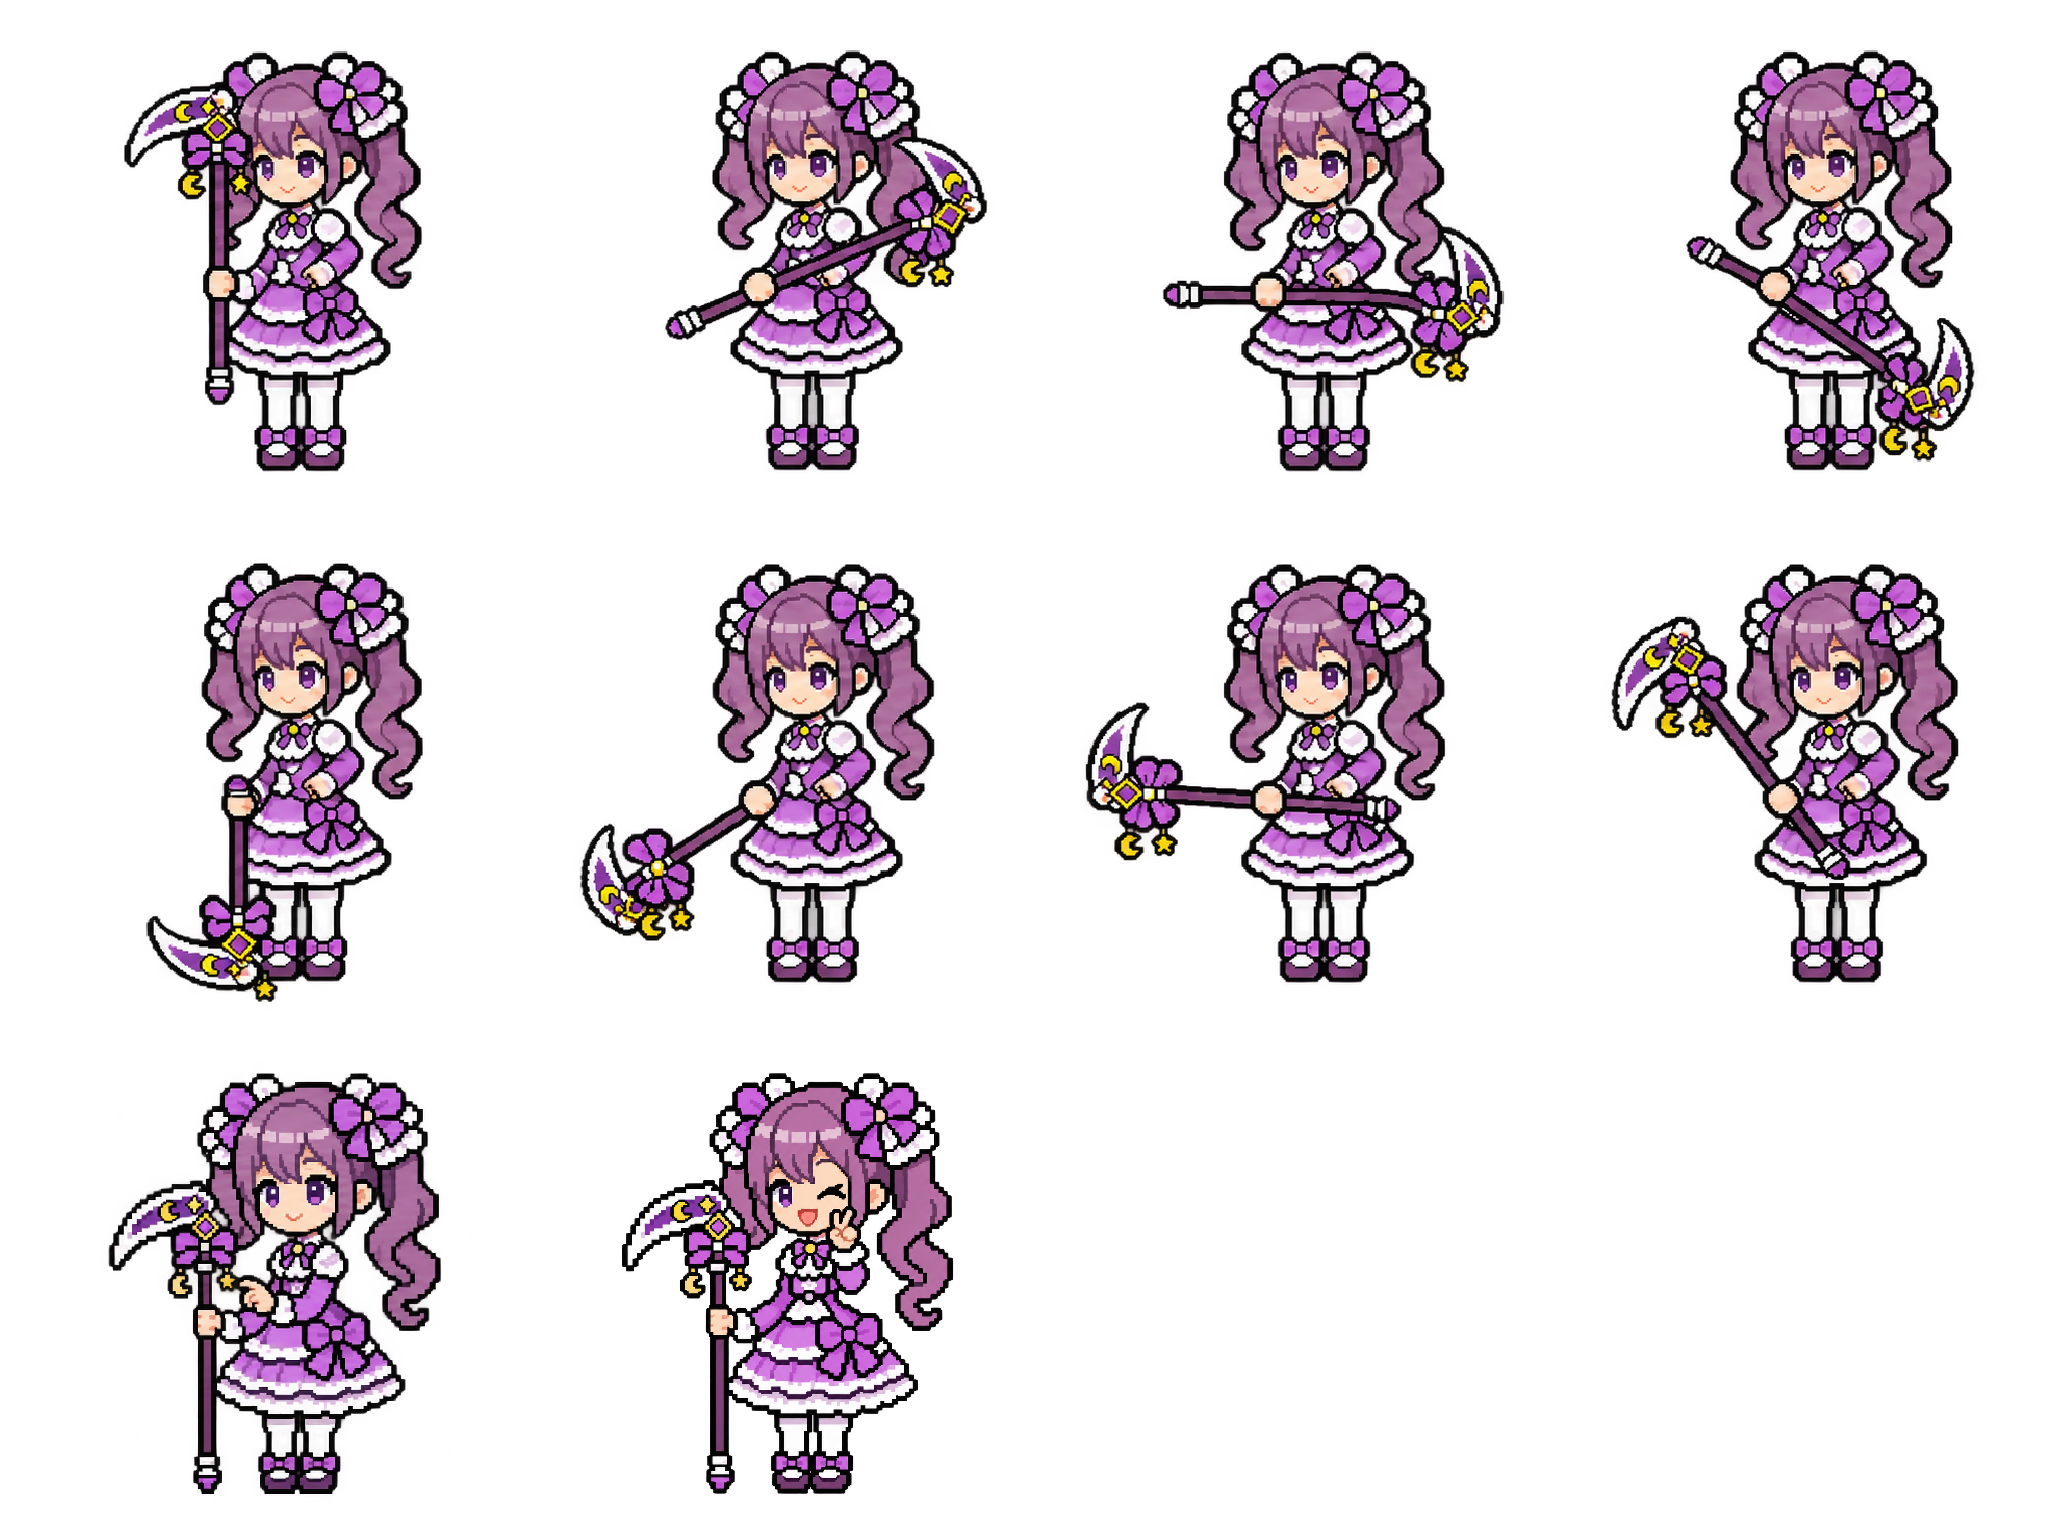
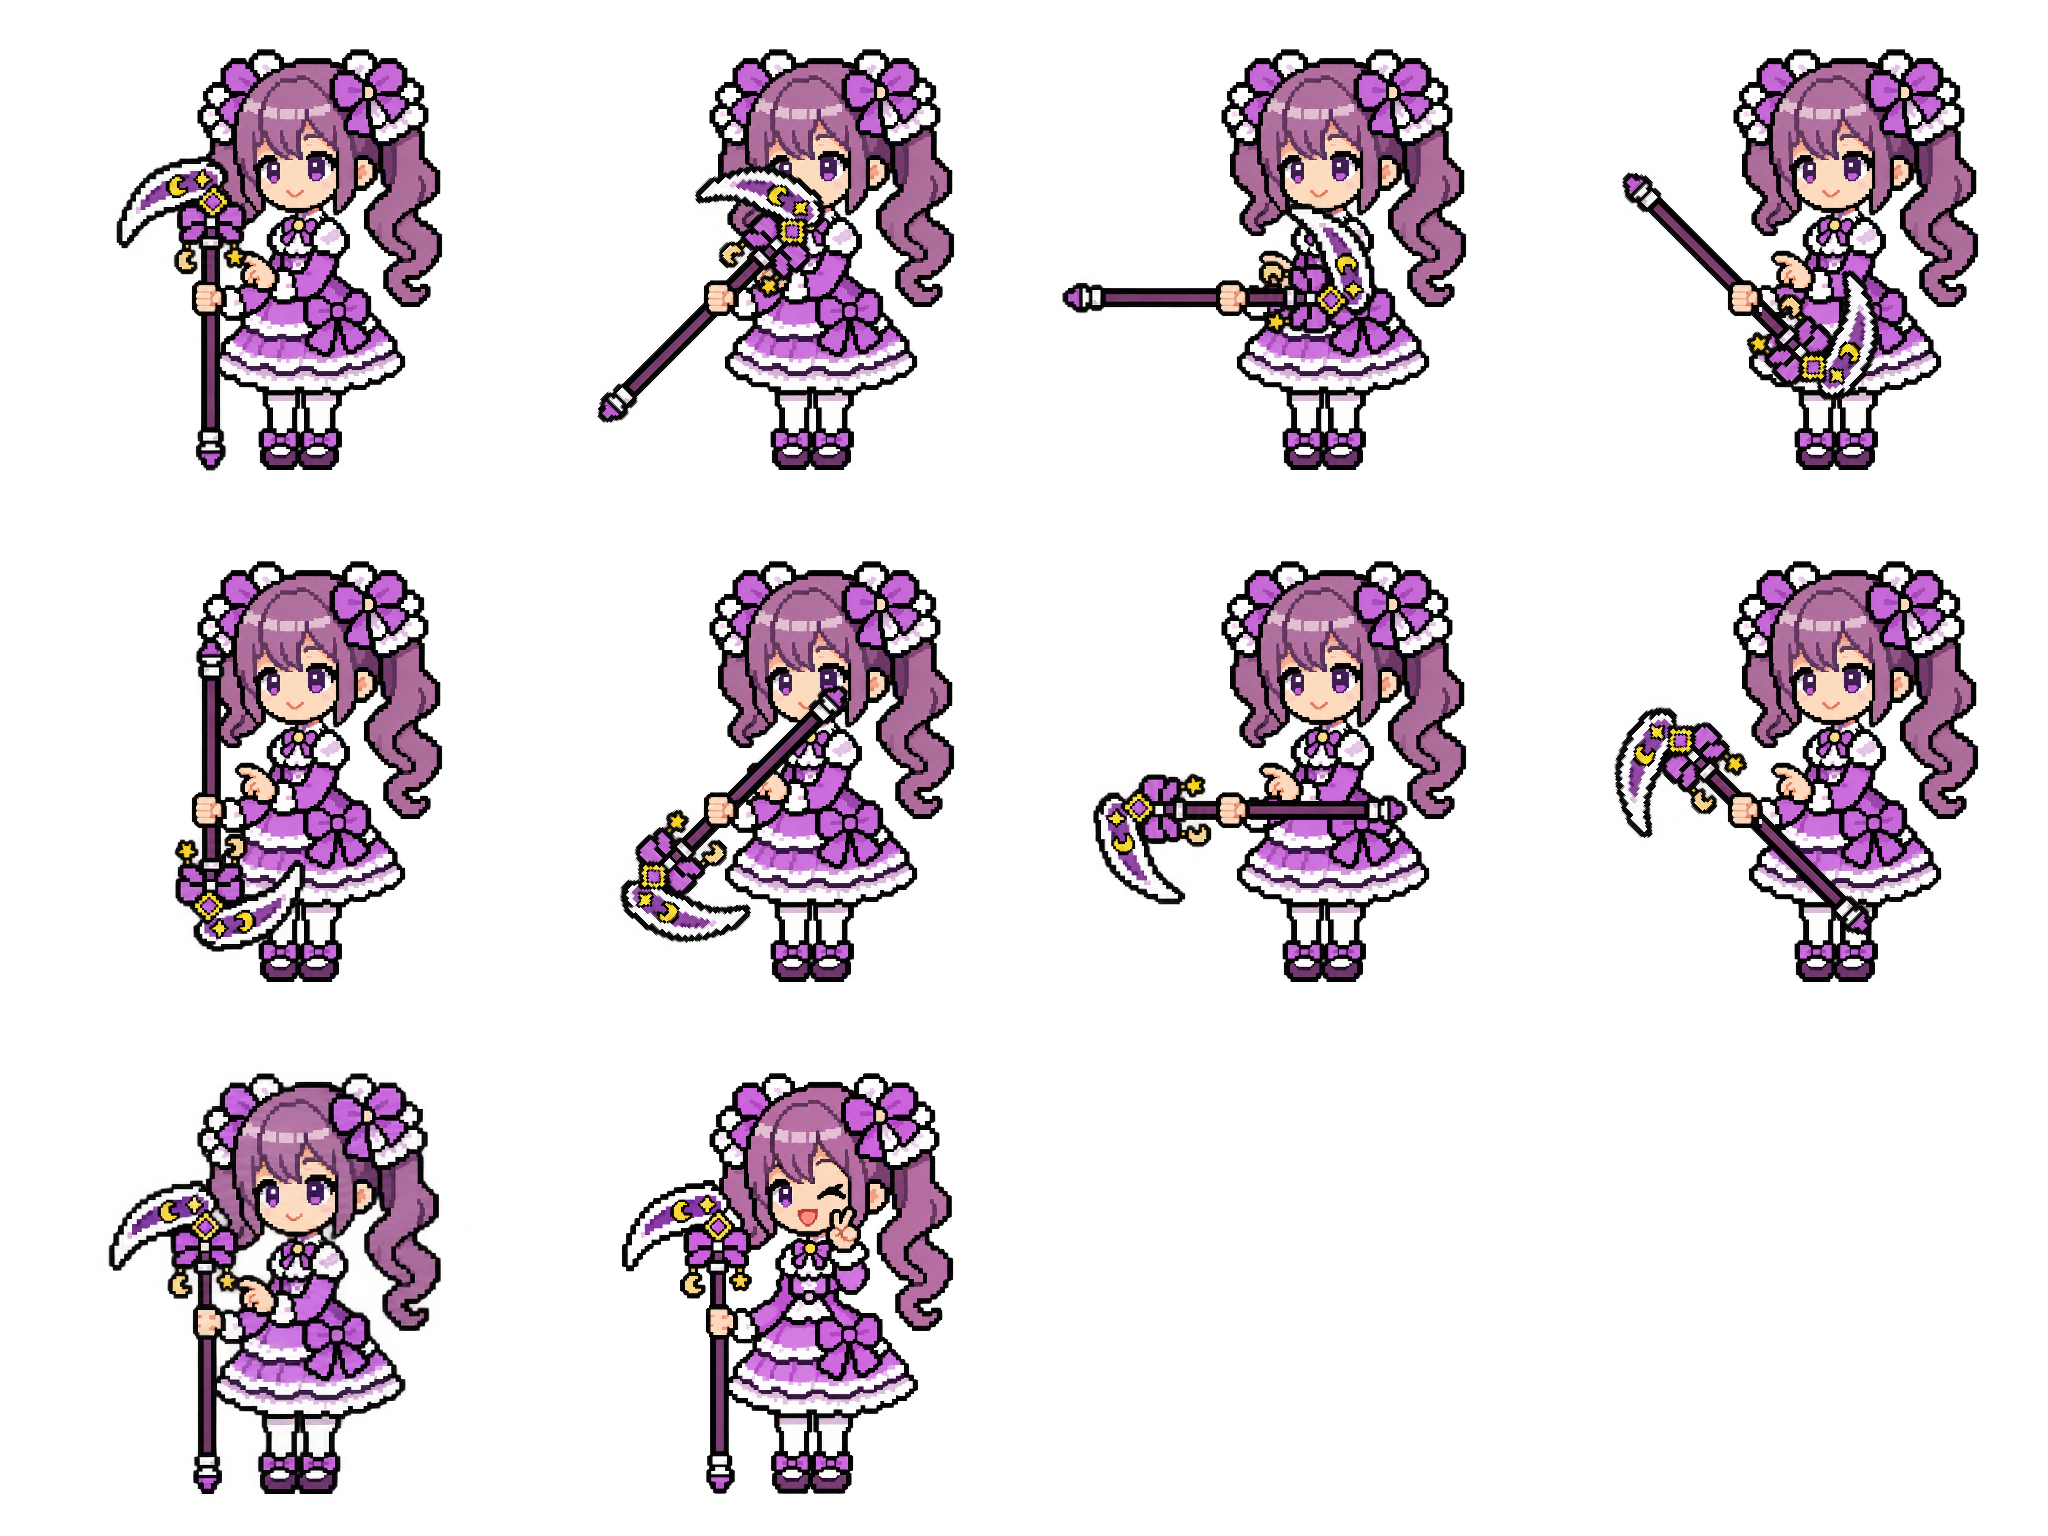
Align scythe spin body and weapon to reduce frame-to-frame flicker

diff --git a/tests/scythe-spin.test.ts b/tests/scythe-spin.test.ts
@@ -60,28 +60,30 @@ test('actual RGBA atlas matches measured bounds, eight distinct directions, exac
   const { createHash } = await import('node:crypto');
   const { demoCharacters } = await import('../src/demoAssets.ts');
   // Decode the PNG pixels rather than trusting a hand-written dimensions claim.
-  const decode = (path: string) => {
-    const png = readFileSync(new URL(`../public/${path}`, import.meta.url));
+  const decode = (path: string | URL) => {
+    const png = readFileSync(path instanceof URL ? path : new URL(`../public/${path}`, import.meta.url));
     const width = png.readUInt32BE(16), height = png.readUInt32BE(20);
-    assert.equal(png[24], 8); assert.equal(png[25], 6); assert.equal(png[28], 0);
+    assert.equal(png[24], 8); assert.ok(png[25] === 6 || png[25] === 0); assert.equal(png[28], 0);
+    const channels = png[25] === 6 ? 4 : 1;
     const chunks: Buffer[] = [];
     for (let offset = 8; offset < png.length;) {
       const size = png.readUInt32BE(offset);
       if (png.toString('ascii', offset + 4, offset + 8) === 'IDAT') chunks.push(png.subarray(offset + 8, offset + 8 + size));
       offset += size + 12;
     }
-    const raw = inflateSync(Buffer.concat(chunks)), stride = width * 4, pixels = Buffer.alloc(stride * height);
+    const raw = inflateSync(Buffer.concat(chunks)), stride = width * channels, pixels = Buffer.alloc(stride * height);
     for (let y = 0; y < height; y++) {
       const filter = raw[y * (stride + 1)];
       assert.ok(filter <= 4);
       for (let x = 0; x < stride; x++) {
-        const index = y * stride + x, a = x >= 4 ? pixels[index - 4] : 0, b = y > 0 ? pixels[index - stride] : 0, c = y > 0 && x >= 4 ? pixels[index - stride - 4] : 0;
+        const index = y * stride + x, a = x >= channels ? pixels[index - channels] : 0, b = y > 0 ? pixels[index - stride] : 0, c = y > 0 && x >= channels ? pixels[index - stride - channels] : 0;
         const p = a + b - c, pa = Math.abs(p - a), pb = Math.abs(p - b), pc = Math.abs(p - c);
         const predictor = filter === 0 ? 0 : filter === 1 ? a : filter === 2 ? b : filter === 3 ? Math.floor((a + b) / 2) : pa <= pb && pa <= pc ? a : pb <= pc ? b : c;
         pixels[index] = raw[y * (stride + 1) + 1 + x] + predictor;
       }
     }
-    return { width, height, cell: (frame: number) => {
+    return { width, height, pixels, cell: (frame: number) => {
+      assert.equal(channels, 4, 'sprite cells must be RGBA');
       const out = Buffer.alloc(512 * 512 * 4), columns = width / 512;
       for (let y = 0; y < 512; y++) pixels.copy(out, y * 2048, (Math.floor(frame / columns) * 512 + y) * stride + frame % columns * 2048, (Math.floor(frame / columns) * 512 + y) * stride + frame % columns * 2048 + 2048);
       return out;
@@ -101,4 +103,28 @@ test('actual RGBA atlas matches measured bounds, eight distinct directions, exac
   }
   assert.equal(new Set(hashes.slice(0, 10)).size, 10, 'real distinct image frames, not duplicated swing frames');
   assert.deepEqual(atlas.cell(8), pickup.cell(3), 'handoff is byte-for-byte the final pickup grip');
+
+  // Artist-authored mask excludes every rotating weapon footprint. Lock its
+  // bytes/counts so shrinking the mask cannot silently weaken this regression.
+  // This proves fixed body registration, not absence of perceptual edge shimmer.
+  const maskPath = new URL('./fixtures/scythe-body-invariance-mask.png', import.meta.url);
[1 lines of base64/hex data omitted]
+  const mask = decode(maskPath);
+  assert.equal(mask.width, 512); assert.equal(mask.height, 512);
+  const reference = atlas.cell(0);
+  let invariantPixels = 0, visibleBodyPixels = 0;
+  for (let pixel = 0; pixel < mask.pixels.length; pixel++) {
+    assert.ok(mask.pixels[pixel] === 0 || mask.pixels[pixel] === 255);
+    if (mask.pixels[pixel] !== 255) continue;
+    invariantPixels++;
+    if (reference[pixel * 4 + 3]) visibleBodyPixels++;
+  }
+  assert.equal(invariantPixels, 186044);
+  assert.equal(visibleBodyPixels, 41088);
+  for (let frame = 1; frame < 8; frame++) {
+    const cell = atlas.cell(frame);
+    for (let pixel = 0; pixel < mask.pixels.length; pixel++) if (mask.pixels[pixel] === 255) {
+      assert.equal(cell.readUInt32BE(pixel * 4), reference.readUInt32BE(pixel * 4), `fixed body RGBA drift: frame ${frame}, pixel ${pixel}`);
+    }
+  }
 });

diff --git a/tests/personal-idle.test.ts b/tests/personal-idle.test.ts
@@ -1,6 +1,6 @@
 import test from 'node:test';
 import assert from 'node:assert/strict';
-import { personalDemo, personalPose, personalRoute, personalRouteProgress, interruptPersonal, advancePersonal } from '../src/personalIdle.ts';
+import { personalDemo, personalPose, personalRoute, personalRouteProgress, interruptPersonal, advancePersonal, personalPlacement, personalDuration } from '../src/personalIdle.ts';
 import { advanceLiveOffice, reconcileLiveOffice, liveOfficePose } from '../src/liveOfficeMotion.ts';
 import type { LiveOfficeTarget } from '../src/liveOfficeMotion.ts';
 import { demoCharacters } from '../src/demoAssets.ts';
@@ -72,8 +72,11 @@ test('new exact alpha assets and every walking frame stay within world and priva
     const seat = fixedOfficeSeats().find(item => item.kind === (role === 'self' ? 'owner' : 'github'))!;
     const route = personalRoute(seat, character), width = officeActorWidth(seat);
     assert.equal(createHash('sha256').update(readFileSync(new URL(`../public/${character.extra!.src}`, import.meta.url))).digest('hex'), extras[role].sha256);
-    for (const [atlas, boxes, points] of [[character.locomotion, walks[role].frames, route], [character.extra!, extras[role].frames, role === 'self' ? [route.at(-1)!] : [seat]]] as const) {
-      for (const point of points) for (const box of boxes) for (const mirrored of [false, true]) {
+    const spinPlacement = personalPlacement(seat, character, { phase: 'scythe', elapsedMs: 0 });
+    // Walking can face either way. Self's held weapon uses the actual stand
+    // placement, which is explicitly locked by the exhaustive regression below.
+    for (const [atlas, boxes, points, facings] of [[character.locomotion, walks[role].frames, route, [false, true]], [character.extra!, extras[role].frames, role === 'self' ? [spinPlacement] : [seat], role === 'self' ? [spinPlacement.mirrored] : [false, true]]] as const) {
+      for (const point of points) for (const box of boxes) for (const mirrored of facings) {
         const [x0,y0,x1,y1] = box, a = mirrored ? 1-atlas.anchor.x : atlas.anchor.x;
         const left = point.x+((mirrored ? 512-x1 : x0)/512-a)*width;
         const right = point.x+((mirrored ? 512-x0 : x1)/512-a)*width;
@@ -101,6 +104,24 @@ test('registered pickup and parked prop alpha stays within private room at the e
       assert.ok(point.x + (x1 / 512 - atlas.anchor.x) * width <= 650);
       assert.ok(point.y + (y0 / 512 - atlas.anchor.y) * width >= 0);
       assert.ok(point.y + (y1 / 512 - atlas.anchor.y) * width <= OFFICE_WORLD.height);
+    }
+  }
+});
+
+test('pickup, spin and putdown always use the unmirrored stand placement, including recalled actions', () => {
+  const character = demoCharacters.find(item => item.id === 'self')!;
+  const seat = fixedOfficeSeats().find(item => item.kind === 'owner')!;
+  const stand = personalRoute(seat, character).at(-1)!;
+  for (const phase of ['pickup', 'scythe', 'putdown'] as const) {
+    for (let elapsedMs = 0; elapsedMs < personalDuration[phase]; elapsedMs++) {
+      const original = { phase, elapsedMs };
+      for (const action of [original, interruptPersonal(original)!]) {
+        const placement = personalPlacement(seat, character, action);
+        assert.equal(placement.mirrored, false, `${phase}/${elapsedMs}: held weapon must not mirror`);
+        assert.equal(placement.x, stand.x); assert.equal(placement.y, stand.y);
+        assert.equal(placement.contactX, character.extra!.anchor.x);
+        assert.equal(placement.contactY, character.extra!.anchor.y);
+      }
     }
   }
 });

diff --git a/docs/whole-office-demo.md b/docs/whole-office-demo.md
@@ -44,4 +44,4 @@ Self now rises, walks to the visible registered scythe, pauses to take it (1 sec
 
 主角色使用八个方向的实际图集，按上、右上、右、右下、下、左下、左、左上依次播放两遍，再回到朝上的握持位置、眨眼摆姿势，最后恢复与取放末帧完全一致的握姿。专属段仍为 2600ms，整体时间轴仍为 32.5s。
 
-工作中断会先完成当前一圈并收回原握姿，再走已有放回 / 回座流程；重复请求不会重置收尾。过期、断连、暂停与减少动态保持当前帧和唯一武器归属。图集方位形成完整旋转，但生成的手腕、轴长及衣褶仍有轻微帧间变化，不是骨骼级逐像素锁定动画。
+工作中断会先完成当前一圈并收回原握姿，再走已有放回 / 回座流程；重复请求不会重置收尾。过期、断连、暂停与减少动态保持当前帧和唯一武器归属。旋转圈内改为同一身体底帧与同一镰刀绕固定握点旋转，避免头发、衣褶和轴长随帧变化。对角线仍有像素阶梯变化，吊坠随武器一起转动，进入 / 退出原握姿及摆姿势仍有短帧切换；不宣称无任何像素闪烁。
